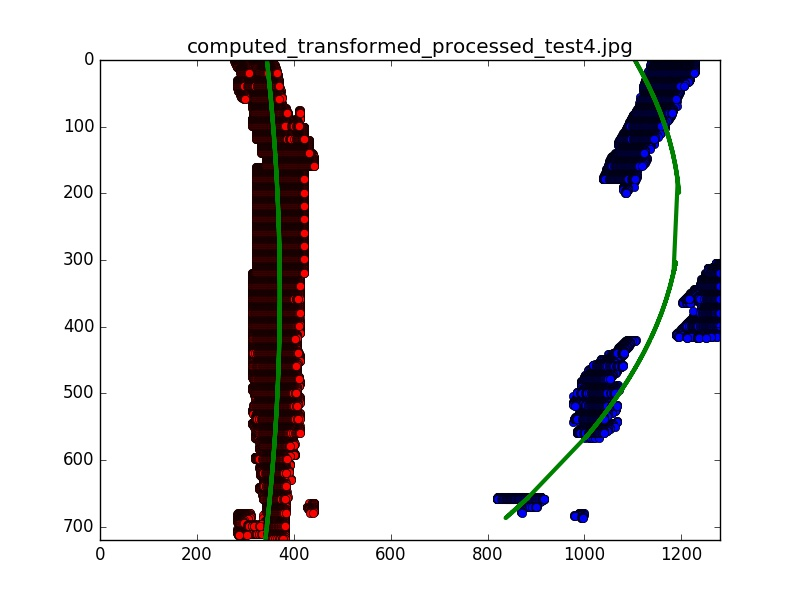
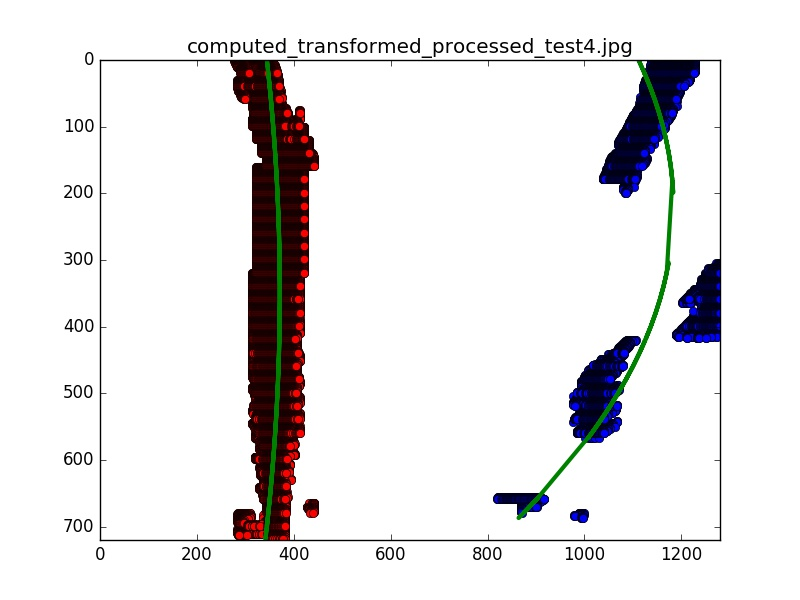
error to debug : /matrix.cpp:1052: error: (-215) cn <= 4 in function scalarToRawData

diff --git a/util_vision.py b/util_vision.py
@@ -1,6 +1,8 @@
 import numpy as np
+from numpy.linalg import inv
 import cv2
 from util_line import qLine
+from util_findLane import findLaneLines
 
 def extractSatuCh(img):
 
@@ -217,33 +219,34 @@ class qVision:
 
         return img_warped
 
-        def projectLines(img_undist, left_line, right_line):
-            #based on Udacity course material
+    def imaginLines(self, img_undist, left_line, right_line):
+        #based on Udacity course material
 
-            # Create an image to draw the lines on
-            warp_zero = np.zeros_like(img_undist).astype(np.uint8)
-            color_warp = np.dstack((warp_zero, warp_zero, warp_zero))
+        # Create an image to draw the lines on
+        warp_zero = np.zeros_like(img_undist).astype(np.uint8)
+        color_warp = np.dstack((warp_zero, warp_zero, warp_zero))
 
-            # Recast the x and y points into usable format for cv2.fillPoly()
-            left_fitx = left_line.getFittedX()
-            yvals = left_line.getPixelsY()
-            pts_left = np.array([np.transpose(np.vstack([left_fitx, yvals]))])
+        # Recast the x and y points into usable format for cv2.fillPoly()
+        left_fitx = left_line.getFittedX()
+        yvals = left_line.getPixelsY()
+        pts_left = np.array([np.transpose(np.vstack([left_fitx, yvals]))])
 
-            right_fitx = right_line.getFittedX()
-            yvals = right_line.getPixelsY()
-            pts_right = np.array([np.flipud(np.transpose(np.vstack([right_fitx, yvals])))])
-            pts = np.hstack((pts_left, pts_right))
+        right_fitx = right_line.getFittedX()
+        yvals = right_line.getPixelsY()
+        pts_right = np.array([np.flipud(np.transpose(np.vstack([right_fitx, yvals])))])
+        pts = np.hstack((pts_left, pts_right))
 
-            # Draw the lane onto the warped blank image
-            cv2.fillPoly(color_warp, np.int_([pts]), (0,255, 0))
+        # Draw the lane onto the warped blank image
+        cv2.fillPoly(color_warp, np.int_([pts]), (0,255, 0))
 
-            # Warp the blank back to original image space using inverse perspective matrix (Minv)
-            newwarp = cv2.warpPerspective(color_warp, Minv, (img_undist.shape[1], img_undist.shape[0])) 
-            # Combine the result with the original image
-            result = cv2.addWeighted(img_undist, 1, newwarp, 0.3, 0)
-            # plt.imshow(result)
+        # Warp the blank back to original image space using inverse perspective matrix (Minv)
+        Minv = inv(self.M)
+        newwarp = cv2.warpPerspective(color_warp, Minv, (img_undist.shape[1], img_undist.shape[0])) 
+        # Combine the result with the original image
+        result = cv2.addWeighted(img_undist, 1, newwarp, 0.3, 0)
+        # plt.imshow(result)
 
-            return result
+        return result
 
 def DBG_CompareImages(img1, img2, title1, title2, cmap2=None, save_to_file=''):
     import matplotlib.pyplot as plt
@@ -334,6 +337,25 @@ def main():
     DBG_CompareImages(img_distorted, img_undist_birdview, 'Original Image', "Bird's Eye View Image",save_to_file='udacity/output_images/persp_birds_eye_view.jpg')
 
 
+    ##########################################
+    # Test on Lane Finding
+    ##########################################
+    img_undist_procd = vision.processImg(img_undist)
+    
+    img_undist_procd_birdview = vision.transformToBirdsEyeView(img_undist_procd)
+    # cv2.imshow('img_undist_procd_birdview',img_undist_procd_birdview)
+    # cv2.waitKey()
+    left_line, right_line = findLaneLines(img_undist_procd_birdview)
+
+    img_imagined_lines = vision.imaginLines(img_undist, left_line, right_line)
+
+    DBG_CompareImages(img_undist, img_imagined_lines, 'Undistorted Image', "Reimagined Lane")
+
+
+
+    ##########################################
+    # Test for Birds Eye View Transformation on black and white thresholded images
+    ##########################################
     # test on thresholded images
     sample_dir = 'udacity/output_images/test_images/'
     images_loc = glob.glob(sample_dir+'/*.jpg')
@@ -349,6 +371,8 @@ def main():
         cv2.imwrite(file_loc, img_undist_birdview ) #Only 8-bit images can be saved using this function, so convert from (0.0, 1.0) to (0,255)
         # cv2.imshow('Processed Image', img_procd)
         # DBG_CompareImages(img_rgb, img_procd, 'Original Image', 'Processed Image', cmap2='gray')
+
+
 
 
 

diff --git a/util_findLane.py b/util_findLane.py
@@ -107,15 +107,18 @@ def findLinePixels(img, initial_x_center, window_width=100, window_height=20, se
         binary_map_line[(btm_left_row_idx-window_height):btm_left_row_idx , 
                             btm_left_col_idx:(btm_left_col_idx+window_width)] =  img[  (btm_left_row_idx-window_height):btm_left_row_idx , 
                                                                                     btm_left_col_idx:(btm_left_col_idx+window_width)]
-                            
-
-        coor_xy = cv2.findNonZero(binary_map_line)
-
-        if coor_xy != None:
-            x_val = coor_xy[:,:,0]
-            x_val = x_val.reshape(-1)
-            y_val = coor_xy[:,:,1]
-            y_val = y_val.reshape(-1)
+        # print('np.max(binary_map_line): ', np.max(binary_map_line))
+        if 1 ==np.max(binary_map_line) :  #if passed in a binary map, cv2.findNonZero requirs a single-channeled 8-bit image
+            im = np.array(binary_map_line * 255, dtype = np.uint8)
+            binary_map_line = cv2.adaptiveThreshold(im, 255, cv2.ADAPTIVE_THRESH_MEAN_C, cv2.THRESH_BINARY, 3, 0)                                                                           
+        # coor_xy = cv2.findNonZero(binary_map_line)
+        # if coor_xy != None:
+        #     x_val = coor_xy[:,:,0]
+        #     x_val = x_val.reshape(-1)
+        #     y_val = coor_xy[:,:,1]
+        #     y_val = y_val.reshape(-1)
+        y_val, x_val = np.nonzero(binary_map_line) # return row,col
+        # print('coor_xy shape: ', coor_xy.shape)
 
 
         np_x_cooridinates = np.hstack((np_x_cooridinates, x_val))
